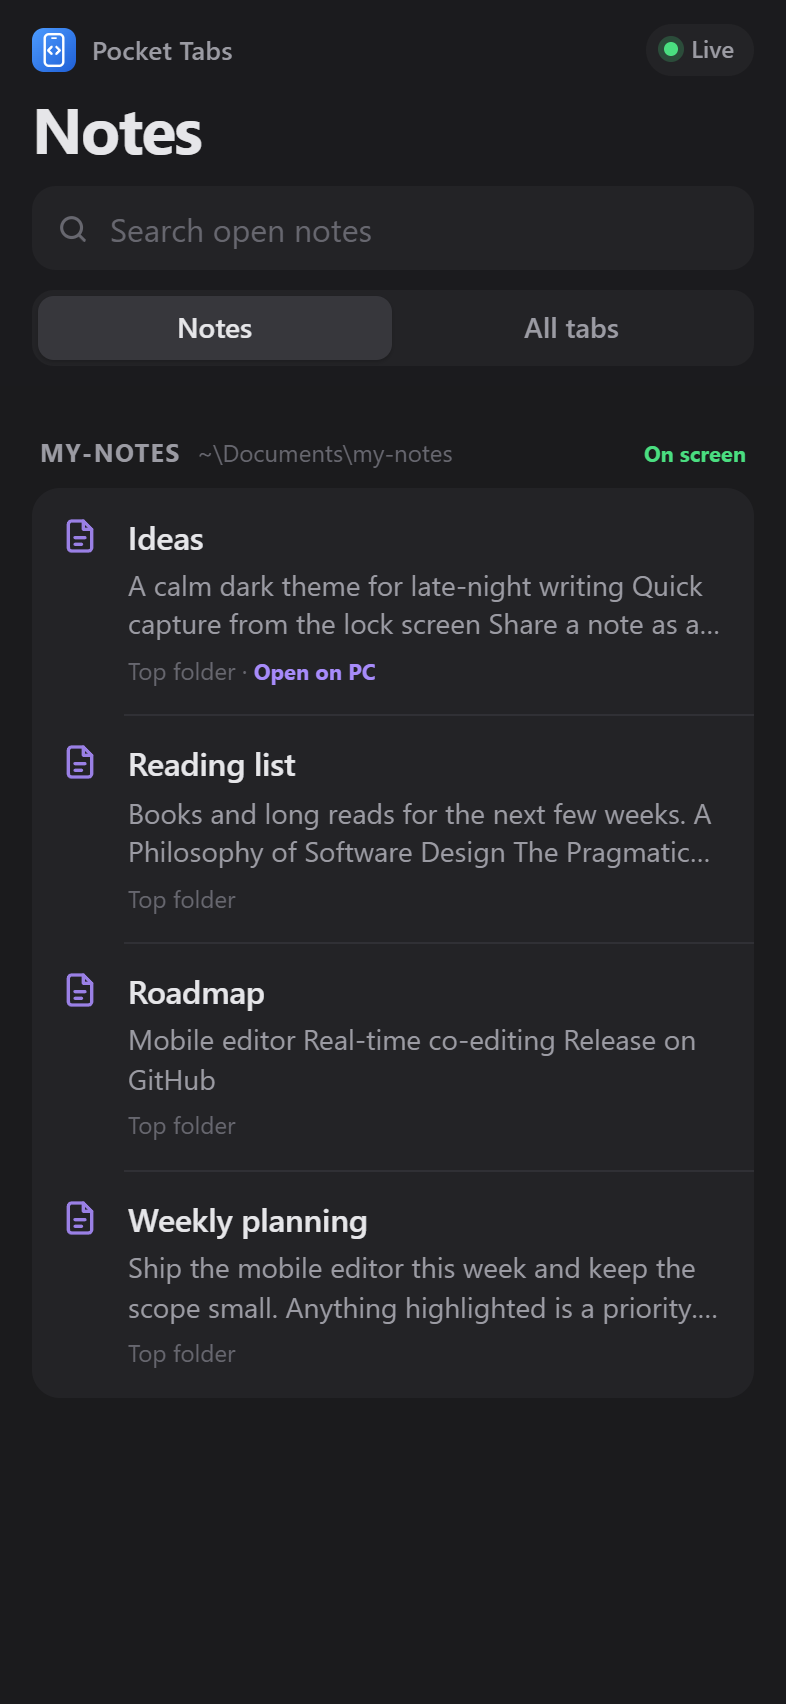
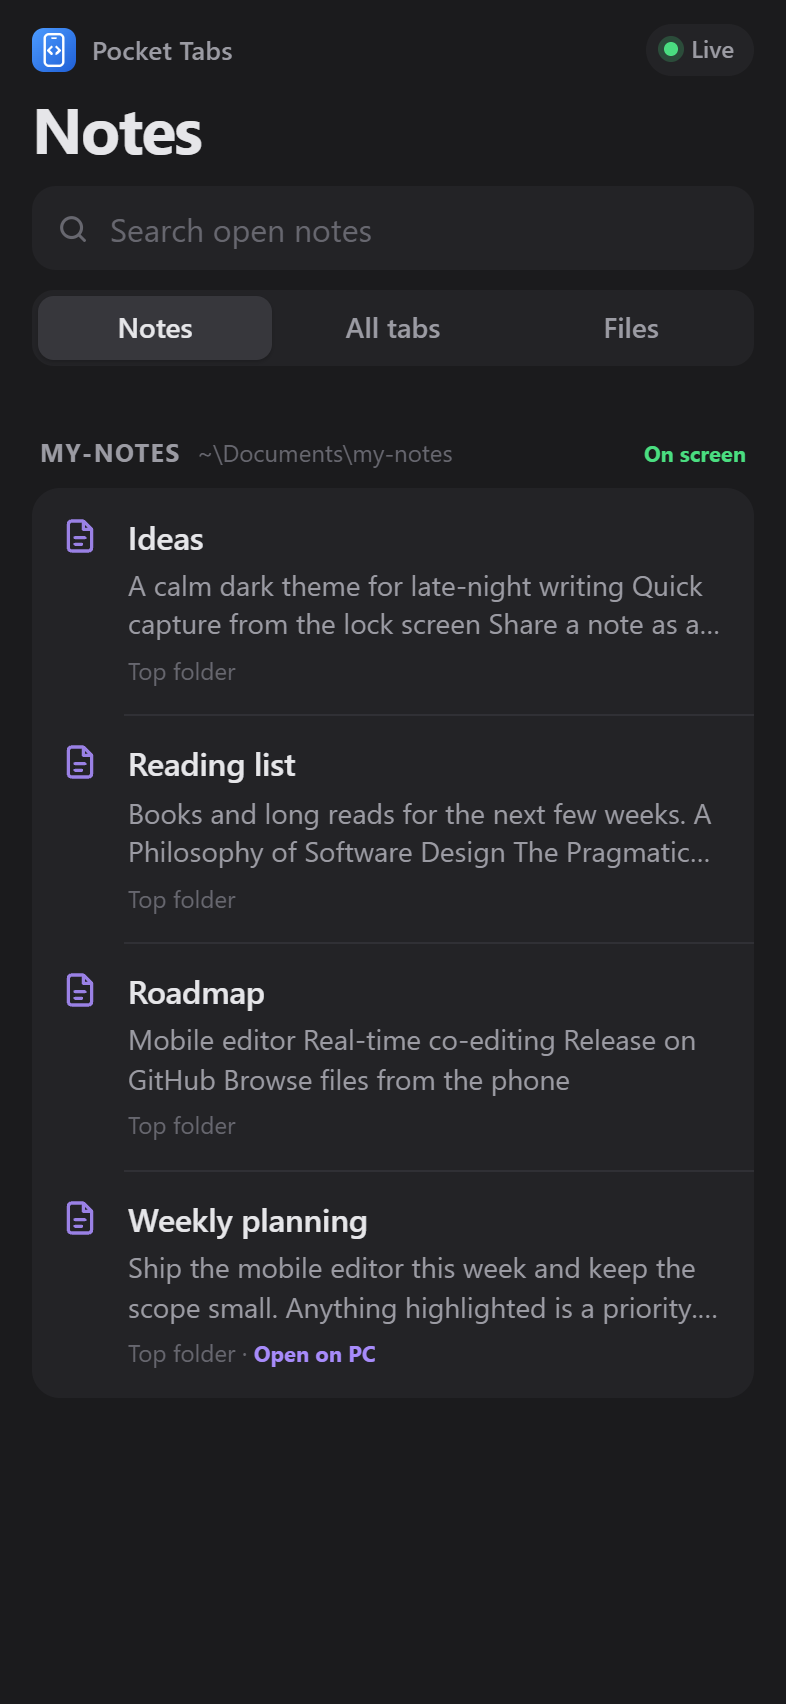
docs: screenshots of the Files view, All tabs and the new home screen
The notes list now shows the Notes / All tabs / Files switcher. New: the Files tree with a folder expanded and Open chips, and All tabs with a Python file opened from the phone and the close buttons. The phone screenshots are now two rows of three.

diff --git a/README.md b/README.md
@@ -9,10 +9,15 @@ See the tabs that are open in **every VS Code window on your PC** and edit them 
 
 ### On the phone
 
-| Your open notes | Live Preview | Editing | Who changed what |
-| :---: | :---: | :---: | :---: |
-| <img src="docs/images/phone-notes.png" width="200" alt="Notes open in VS Code, listed on the phone with previews"> | <img src="docs/images/phone-note.png" width="200" alt="A note in Live Preview: properties, callout, checkboxes and a table"> | <img src="docs/images/phone-editing.png" width="200" alt="Editing a task list with the formatting bar above the keyboard"> | <img src="docs/images/phone-blame.png" width="200" alt="Blame view: who last changed each line, latest edits, and line details"> |
-| Every Markdown file open in any VS Code window | Obsidian-style rendering | Formatting bar; violet = this phone, blue = PC | Git blame plus this session's edits |
+| Your open notes | Browse your folders | All tabs |
+| :---: | :---: | :---: |
+| <img src="docs/images/phone-notes.png" width="240" alt="Notes open in VS Code, listed on the phone with previews, and the Notes, All tabs and Files switcher"> | <img src="docs/images/phone-files.png" width="240" alt="The Files view: the window's folder as a tree with one folder expanded, and Open chips on files already open on the PC"> | <img src="docs/images/phone-tabs.png" width="240" alt="All tabs: notes and a Python file opened from the phone, each with a close button"> |
+| Every Markdown file open in any VS Code window | Tap a file to open it as a tab on the PC | Every tab, code too; × closes it on the PC |
+
+| Live Preview | Editing | Who changed what |
+| :---: | :---: | :---: |
+| <img src="docs/images/phone-note.png" width="240" alt="A note in Live Preview: properties, callout, checkboxes and a table"> | <img src="docs/images/phone-editing.png" width="240" alt="Editing a task list with the formatting bar above the keyboard"> | <img src="docs/images/phone-blame.png" width="240" alt="Blame view: who last changed each line, latest edits, and line details"> |
+| Obsidian-style rendering | Formatting bar; violet = this phone, blue = PC | Git blame plus this session's edits |
 
 ### On the PC
 
